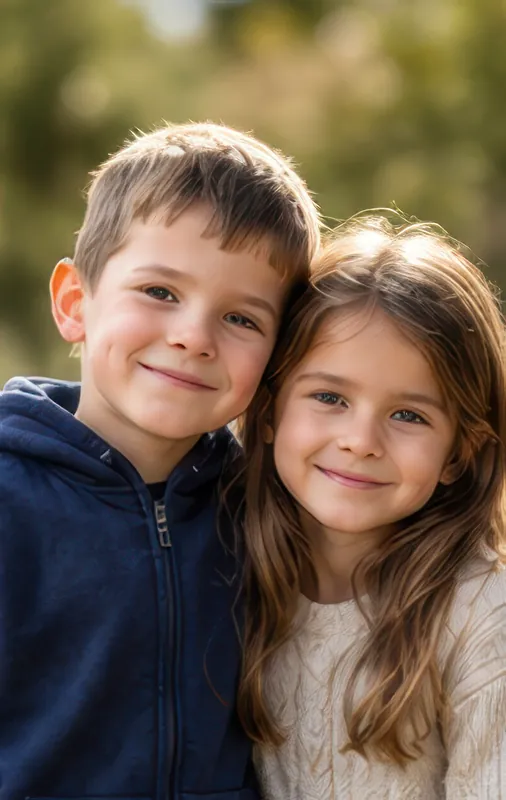
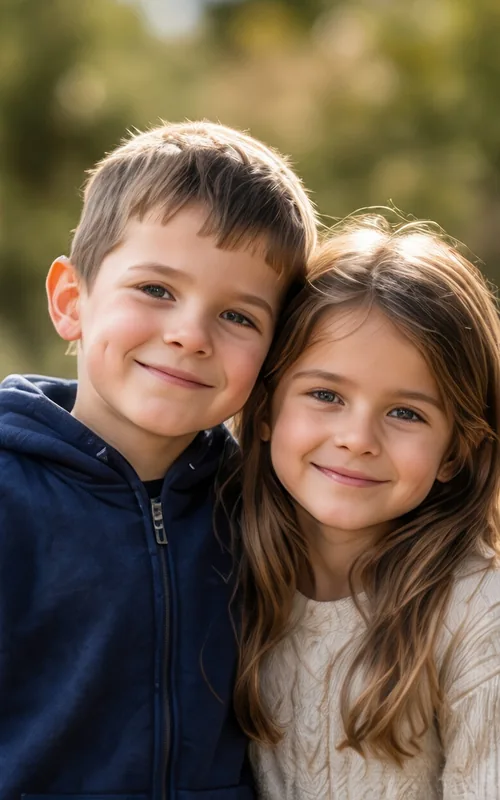
Replace hero, about and kids photos with retouched versions

diff --git a/index.html b/index.html
@@ -165,7 +165,7 @@
       .hero { background: var(--cream); color: var(--ink); }
       .hero { --split: max(42%, calc(50% - 60px)); --edge: max(0px, calc(50% - 600px)); }
       .hero-media { left: var(--split); border-bottom-left-radius: 56px; overflow: hidden; }
-      .hero-media img { object-position: center; }
+      .hero-media img { object-position: 64% center; }
       .hero-shade { left: var(--split); background: linear-gradient(to right, var(--cream) 0%, rgba(250,246,238,.7) 8%, rgba(250,246,238,.25) 20%, rgba(250,246,238,0) 34%); }
       .hero-inner { padding-top: 170px; padding-bottom: 190px; }
       .hero h1 { color: var(--forest-ink); }
@@ -401,7 +401,7 @@
 <!-- ─── HERO ─── -->
 <section id="home" class="hero">
   <div class="hero-media">
-    <img src="media/new/volunteer-family.webp" alt="" width="1784" height="1252" fetchpriority="high" />
+    <img src="media/new/volunteer-family.webp" alt="" width="1216" height="848" fetchpriority="high" />
   </div>
   <div class="hero-shade"></div>
   <img class="hero-brush" src="media/new/brush-gold.webp" alt="" aria-hidden="true" />
@@ -467,7 +467,7 @@
         <img class="about-brush" src="media/new/brush-gold.webp" alt="" aria-hidden="true" loading="lazy" />
         <img class="about-blob" src="media/new/blob-sage.webp" alt="" aria-hidden="true" loading="lazy" />
         <div class="about-photo">
-          <img src="media/new/volunteers.webp" alt="" width="1200" height="1197" loading="lazy" decoding="async" />
+          <img src="media/new/volunteers.webp" alt="" width="1024" height="1008" loading="lazy" decoding="async" />
         </div>
         <div class="mission-card">
           <div class="hand mb-1" data-i18n="about.mission.title">Наша місія</div>
